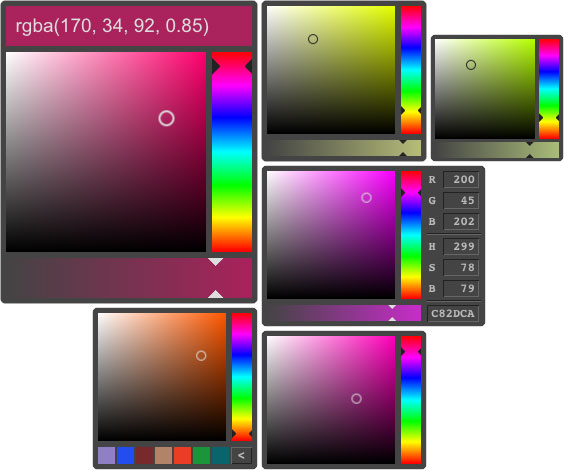
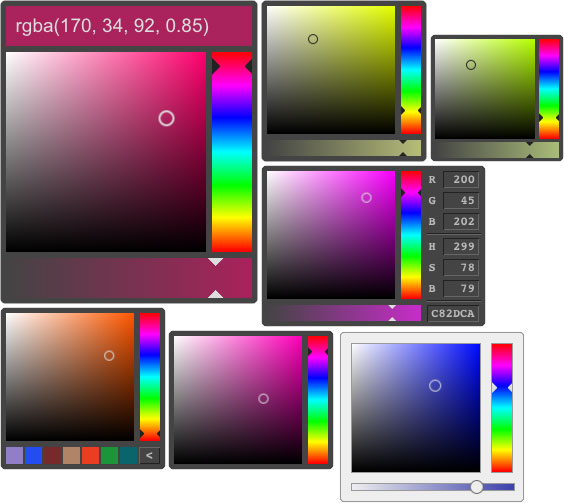
Added skinning demo

diff --git a/index.html b/index.html
@@ -21,6 +21,7 @@ On all inputs with className 'color': <pre>$('input.color').colorPicker();</pre>
 		<option value="mobile">Mobile</option>
 		<option value="input">Input fields</option>
 		<option value="memory">Color memory spaces</option>
+		<option value="skinned">Skinned (white)</option>
 		<option value="noalpha">Default without alpha</option>
 		<option value="small">Default but smaller</option>
 	</select>
@@ -241,6 +242,25 @@ window.myColorPicker = $('input.color').colorPicker({
 				'.cp-xy-slider{width:100px; height:100px; margin-bottom:3px;}' +
 				'.cp-z-slider{height:100px; margin-left:4px;}' +
 				'.cp-alpha{margin:4px 0;}'
+		};
+
+		// the default skinned and white
+		plugin.skinned = {
+			customBG: '#222',
+			margin: '5px -2px',
+			cssAddon: // could also be in a css file instead
+				'.cp-color-picker{border:2px solid #999; padding:10px; background:#eee; overflow:visible;}' +
+				'.cp-color-picker:before{content:""; display:block; ' +
+					'position:absolute; top:-16px; left:12px; border:8px solid #eee;' +
+					'border-color: transparent transparent #eee}' +
+				'.cp-xy-slider{border:1px solid #999; margin-bottom:10px;}' +
+				'.cp-xy-cursor{width:12px; height:12px; margin:-6px}' +
+				'.cp-z-slider{margin-left:10px; border:1px solid #999;}' +
+				'.cp-z-cursor{border-width:5px; margin-top:-5px;}' +
+				'.cp-color-picker .cp-alpha{margin:10px 0 0; height:6px; overflow:visible; border:1px solid #999;' +
+					'background: linear-gradient(to right, rgba(238,238,238,1) 0%,rgba(0,0,0,0) 100%);}' +
+				'.cp-alpha-cursor{background: #eee; border-radius: 100%;' +
+					'width:14px; height:14px; margin:-4px -7px; border:1px solid #666!important}'
 		};
 
 
